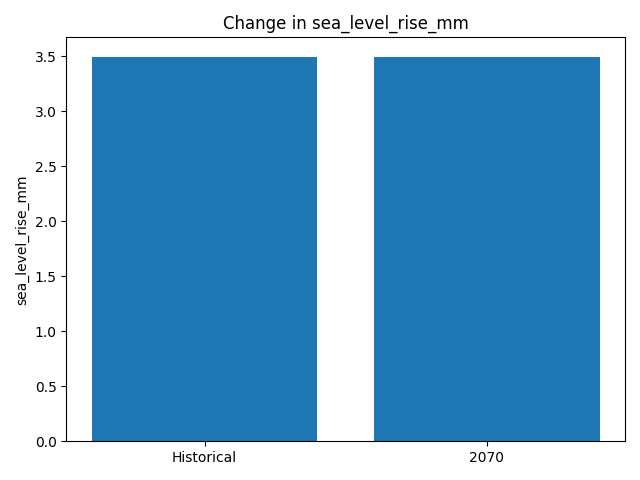
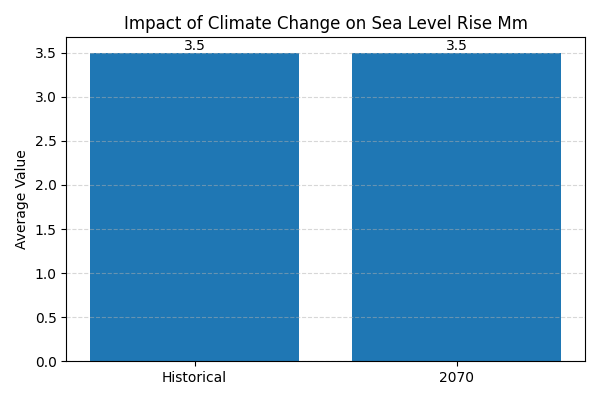
Improve engineering analysis charts

Changed region(s): [[0.0, 0.03, 0.99, 0.96]]

diff --git a/ZaritaLee_engineering_analysis/engineering_analysis.py b/ZaritaLee_engineering_analysis/engineering_analysis.py
@@ -63,10 +63,26 @@ for column in top_indicators:
     historical_average = historical_data[column].mean()
     future_average = future_data[column].mean()
 
-    plt.figure()
-    plt.bar(["Historical", "2070"], [historical_average, future_average])
-    plt.title("Change in " + column)
-    plt.ylabel(column)
+    plt.figure(figsize=(6, 4))
+
+    bars = plt.bar(["Historical", "2070"], [historical_average, future_average])
+
+    chart_title = column.replace("_", " ").title()
+    plt.title("Impact of Climate Change on " + chart_title, fontsize=12)
+    plt.ylabel("Average Value", fontsize=10)
+
+    for bar in bars:
+        height = bar.get_height()
+        plt.text(
+            bar.get_x() + bar.get_width() / 2,
+            height,
+            round(height, 2),
+            ha="center",
+            va="bottom"
+        )
+
+    plt.grid(axis="y", linestyle="--", alpha=0.5)
+
     plt.tight_layout()
     plt.savefig("figures/" + column + ".png")
     plt.close()
